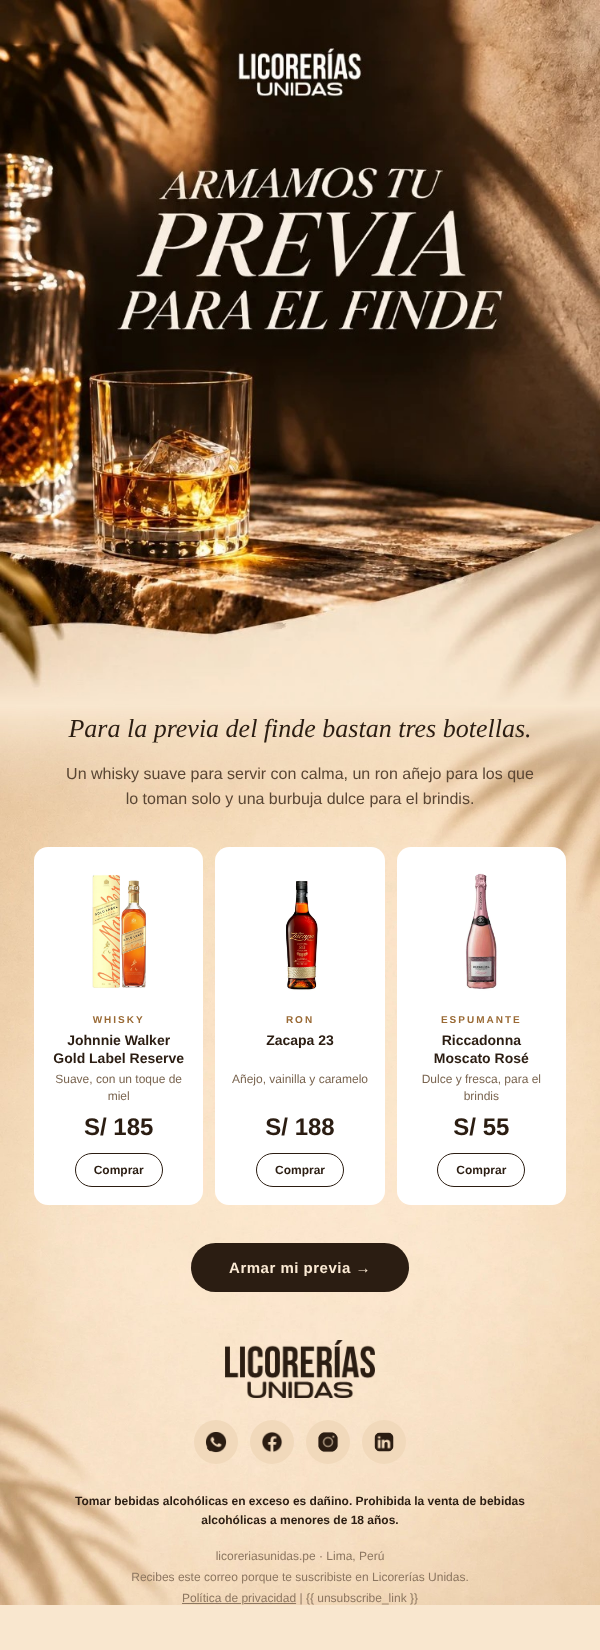
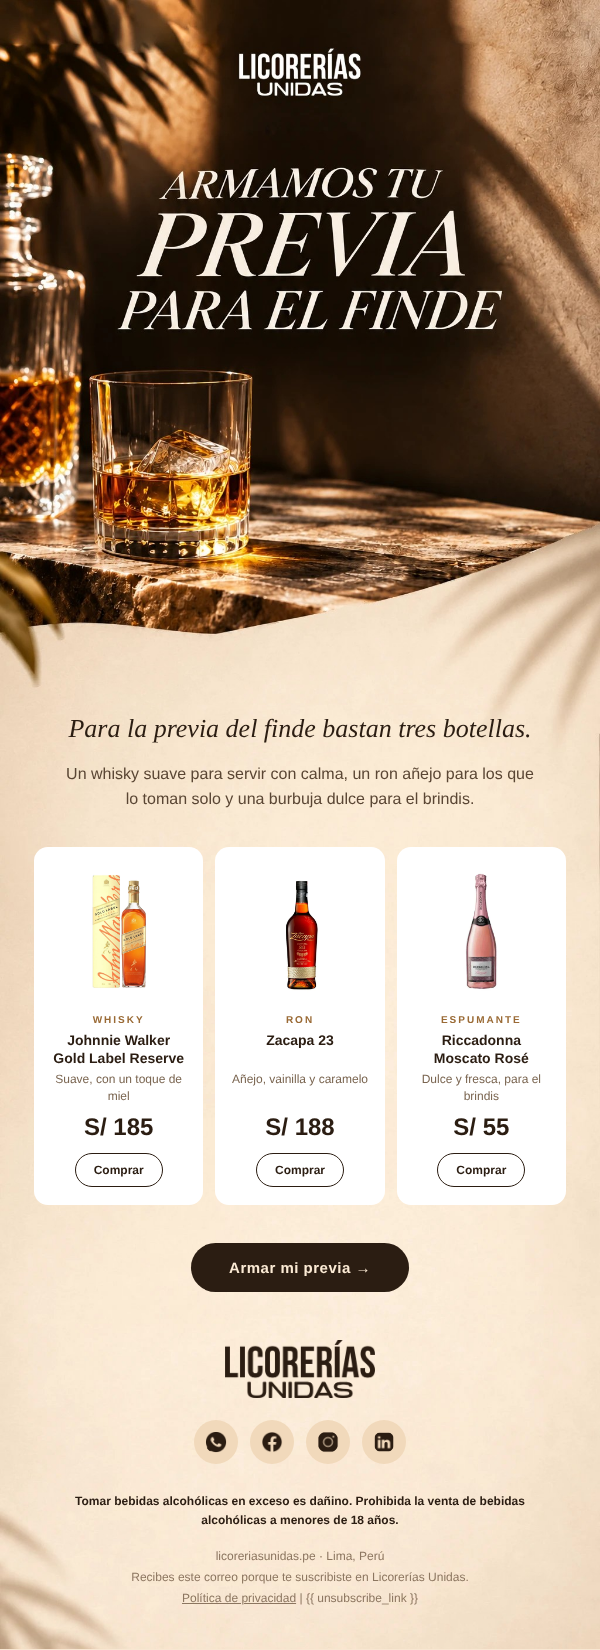
Mailing previa: cabecera y fondo con los cortes de Paolo
Claude-Session: https://claude.ai/code/session_0148WGEnZfS2ZRp3UxJqiBn1

diff --git a/entregables/mailing_nov/2026-11-07_previa.html b/entregables/mailing_nov/2026-11-07_previa.html
@@ -6,7 +6,7 @@
 <meta name="x-apple-disable-message-reformatting">
 <title>Armamos tu previa del finde</title>
 <style>
-  body{margin:0;padding:0;background:#F9E7CF}
+  body{margin:0;padding:0;background:#F8E7D2}
   a{text-decoration:none}
   .unsub a{color:#8C7660!important;text-decoration:underline!important}
   @media (max-width:620px){
@@ -16,7 +16,7 @@
   }
 </style>
 </head>
-<body style="margin:0;padding:0;background:#F9E7CF">
+<body style="margin:0;padding:0;background:#F8E7D2">
 <div style="display:none;max-height:0;overflow:hidden;opacity:0;color:#FBEAD4">Gold Label, Zacapa 23 y Riccadonna, directo a tu puerta.&#8199;&#847;&#8199;&#847;&#8199;&#847;&#8199;&#847;</div>
 
 <table role="presentation" width="100%" cellpadding="0" cellspacing="0" border="0" style="background:#FBEAD4">
@@ -27,7 +27,7 @@
   <tr><td><a href="https://licoreriasunidas.pe/"><img src="img/previa_header.jpg" width="600" alt="Armamos tu previa para el finde" style="display:block;width:100%;max-width:600px;height:auto;border:0"></a></td></tr>
 
   <!-- Cuerpo con fondo (PREVIA_FONDO_URL) -->
-  <tr><td background="img/previa_fondo.jpg" bgcolor="#F9E7CF" valign="top" style="background-color:#F9E7CF;background-image:url('img/previa_fondo.jpg');background-size:100% auto;background-position:top center;background-repeat:no-repeat">
+  <tr><td background="img/previa_fondo.jpg" bgcolor="#F8E7D2" valign="top" style="background-color:#F8E7D2;background-image:url('img/previa_fondo.jpg');background-size:100% auto;background-position:top center;background-repeat:no-repeat">
   <table role="presentation" width="100%" cellpadding="0" cellspacing="0" border="0">
   <!-- Intro -->
   <tr><td class="px" align="center" style="padding:8px 64px 0;font-family:Georgia,'Times New Roman',serif;font-size:26px;line-height:32px;color:#2B1D12;font-style:italic">
